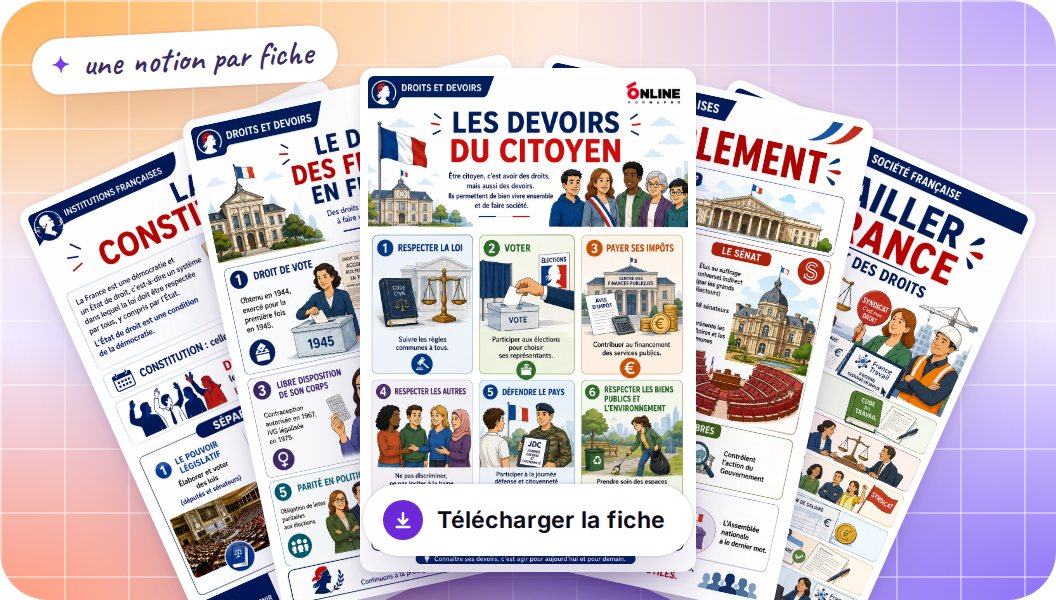
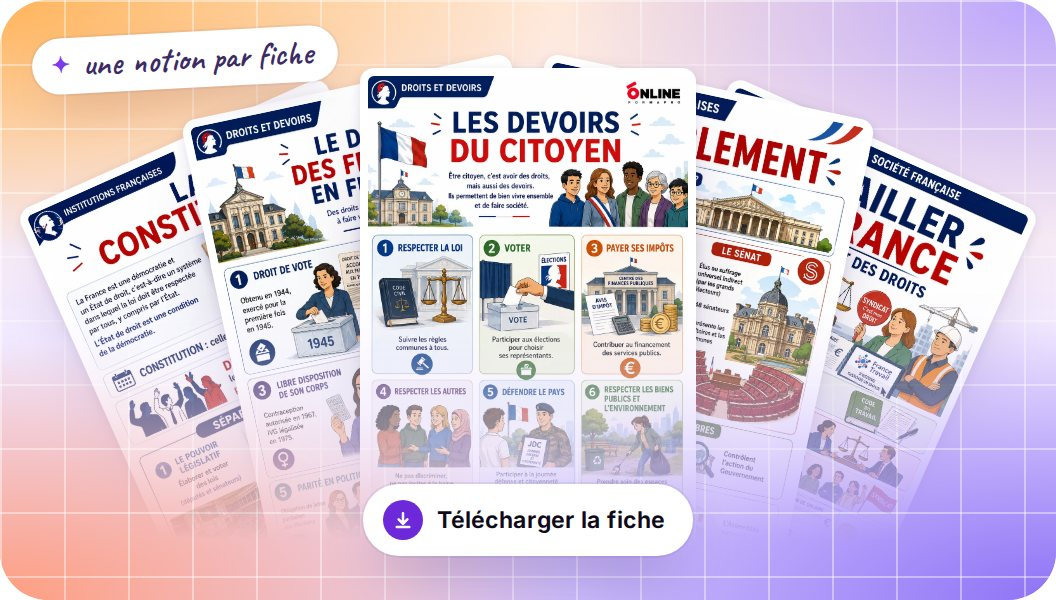
Newsletter : les fiches se fondent dans le fond vers le bas
Un voile, copie exacte du fond (dégradé et quadrillage), passe au-dessus de
l'éventail de fiches et devient opaque en bas : les fiches s'y dissolvent au
lieu d'être coupées par le cadre. Le bouton « Télécharger la fiche » reste
au premier plan.

Claude-Session: https://claude.ai/code/session_01FeZWDqfAndBDqFz8uAYmmt

Changed region(s): [[0.0938, 0.51, 0.9062, 1.0]]

diff --git a/tools/illustrations-civicap.py b/tools/illustrations-civicap.py
@@ -425,7 +425,8 @@ def entete_photo():
 
 
 def fiches():
-    """Les fiches formatives à télécharger : cinq vraies fiches en éventail, dans le cadre de marque."""
+    """Les fiches formatives à télécharger : cinq vraies fiches en éventail, dans le cadre de marque,
+    qui se fondent dans le fond vers le bas."""
     w, h = 528, 300
     css = """
 .fond{position:absolute;inset:0;border-radius:24px;overflow:hidden;background:""" + DEGRADE + """}
@@ -434,6 +435,12 @@ def fiches():
 .f{position:absolute;left:180px;top:34px;width:168px;height:252px;border-radius:7px;border:4px solid #fff;
   background:#fff center top/cover no-repeat;transform-origin:50% 175%;
   box-shadow:0 24px 44px -18px rgba(46,16,101,.48),0 2px 6px rgba(46,16,101,.12)}
+/* le fondu du bas : une copie exacte du fond (dégradé et quadrillage), opaque en bas,
+   posée sur les fiches, qui s'y dissolvent au lieu d'être coupées par le cadre */
+.voile{position:absolute;inset:0;z-index:4;border-radius:24px;overflow:hidden;background:""" + DEGRADE + """;
+  -webkit-mask-image:linear-gradient(180deg,transparent 48%,rgba(0,0,0,.55) 70%,#000 90%)}
+.voile::after{content:"";position:absolute;inset:0;""" + GRILLE + """;
+  -webkit-mask-image:radial-gradient(ellipse 60% 55% at 50% 45%,transparent 35%,#000 85%)}
 .tele{position:absolute;left:50%;bottom:22px;transform:translateX(-50%);display:flex;align-items:center;gap:7px;
   padding:8px 14px 8px 10px;border-radius:999px;background:#fff;font-size:11.5px;font-weight:650;color:#0F0A1A;white-space:nowrap;
   box-shadow:0 14px 30px -10px rgba(46,16,101,.42),0 0 0 1px rgba(76,52,140,.08)}
@@ -448,6 +455,7 @@ def fiches():
     corps = f"""
 <div class="fond"></div>
 {feuilles}
+<div class="voile"></div>
 <div class="tele" style="z-index:6"><i>{fleche}</i>Télécharger la fiche</div>
 <div class="main" style="left:16px;top:16px;transform:rotate(-3deg);z-index:6"><i>✦</i>une notion par fiche</div>
 """
